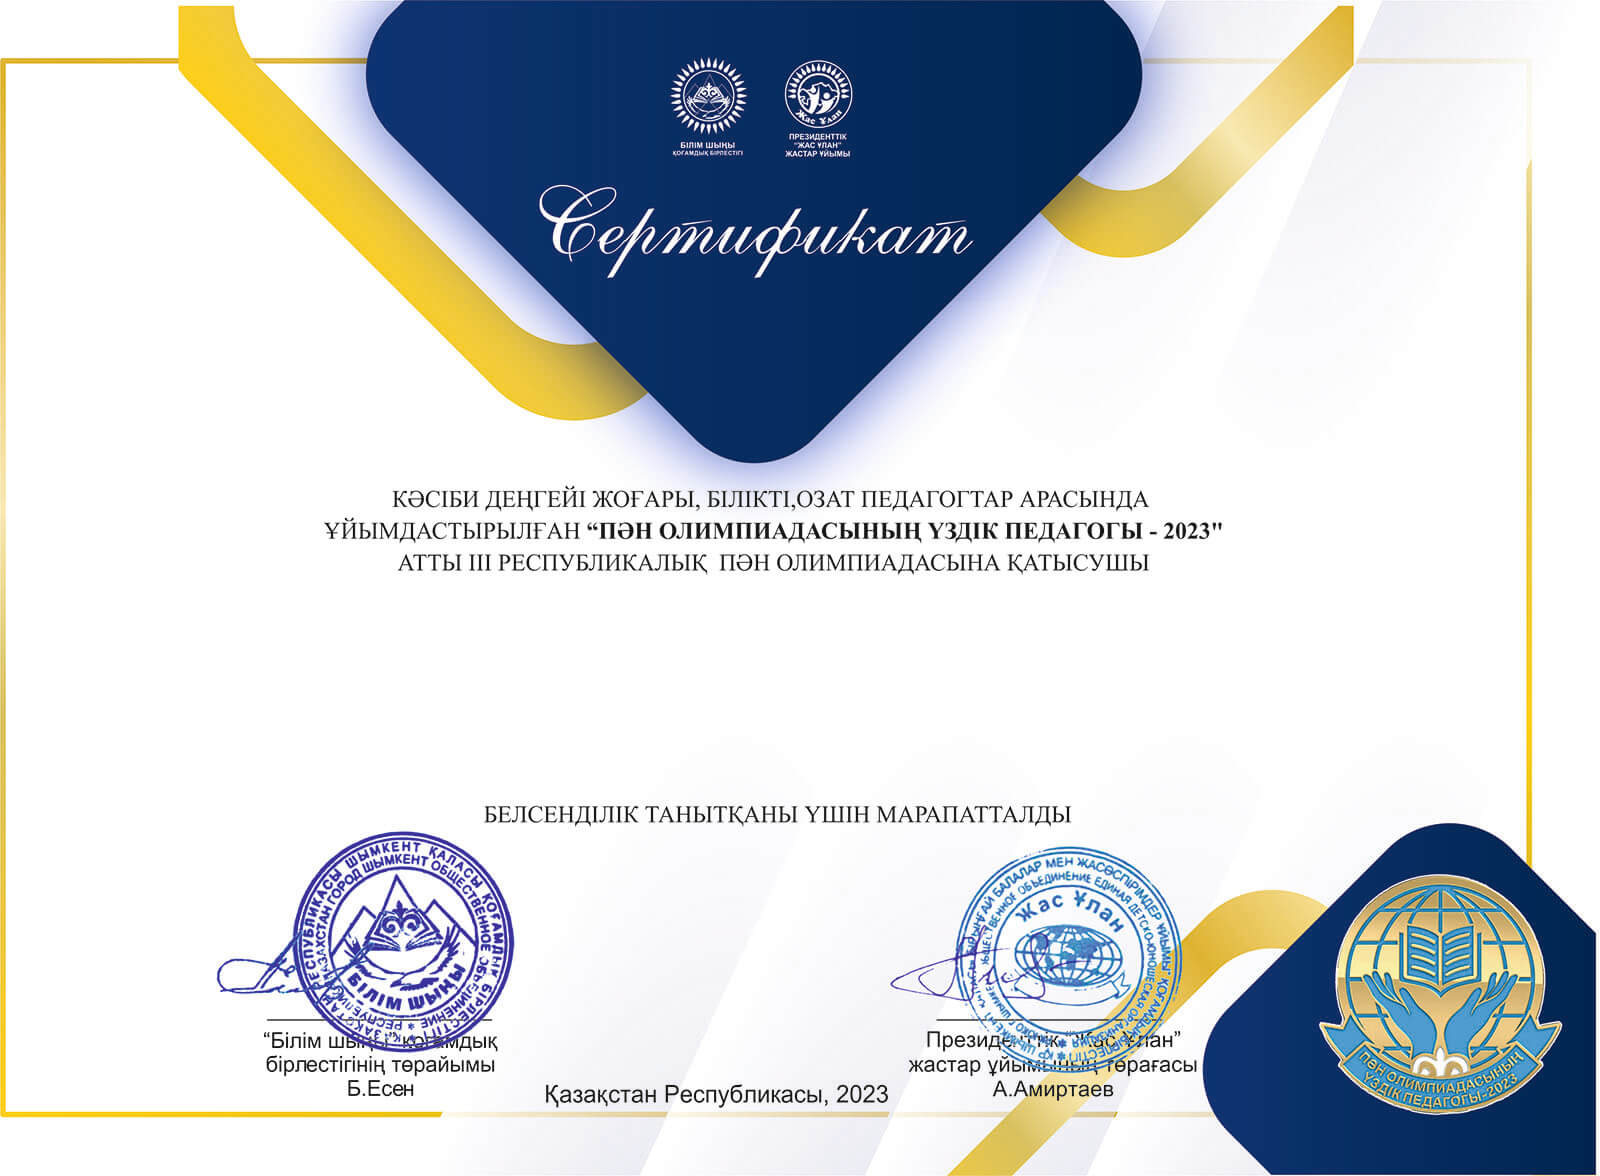
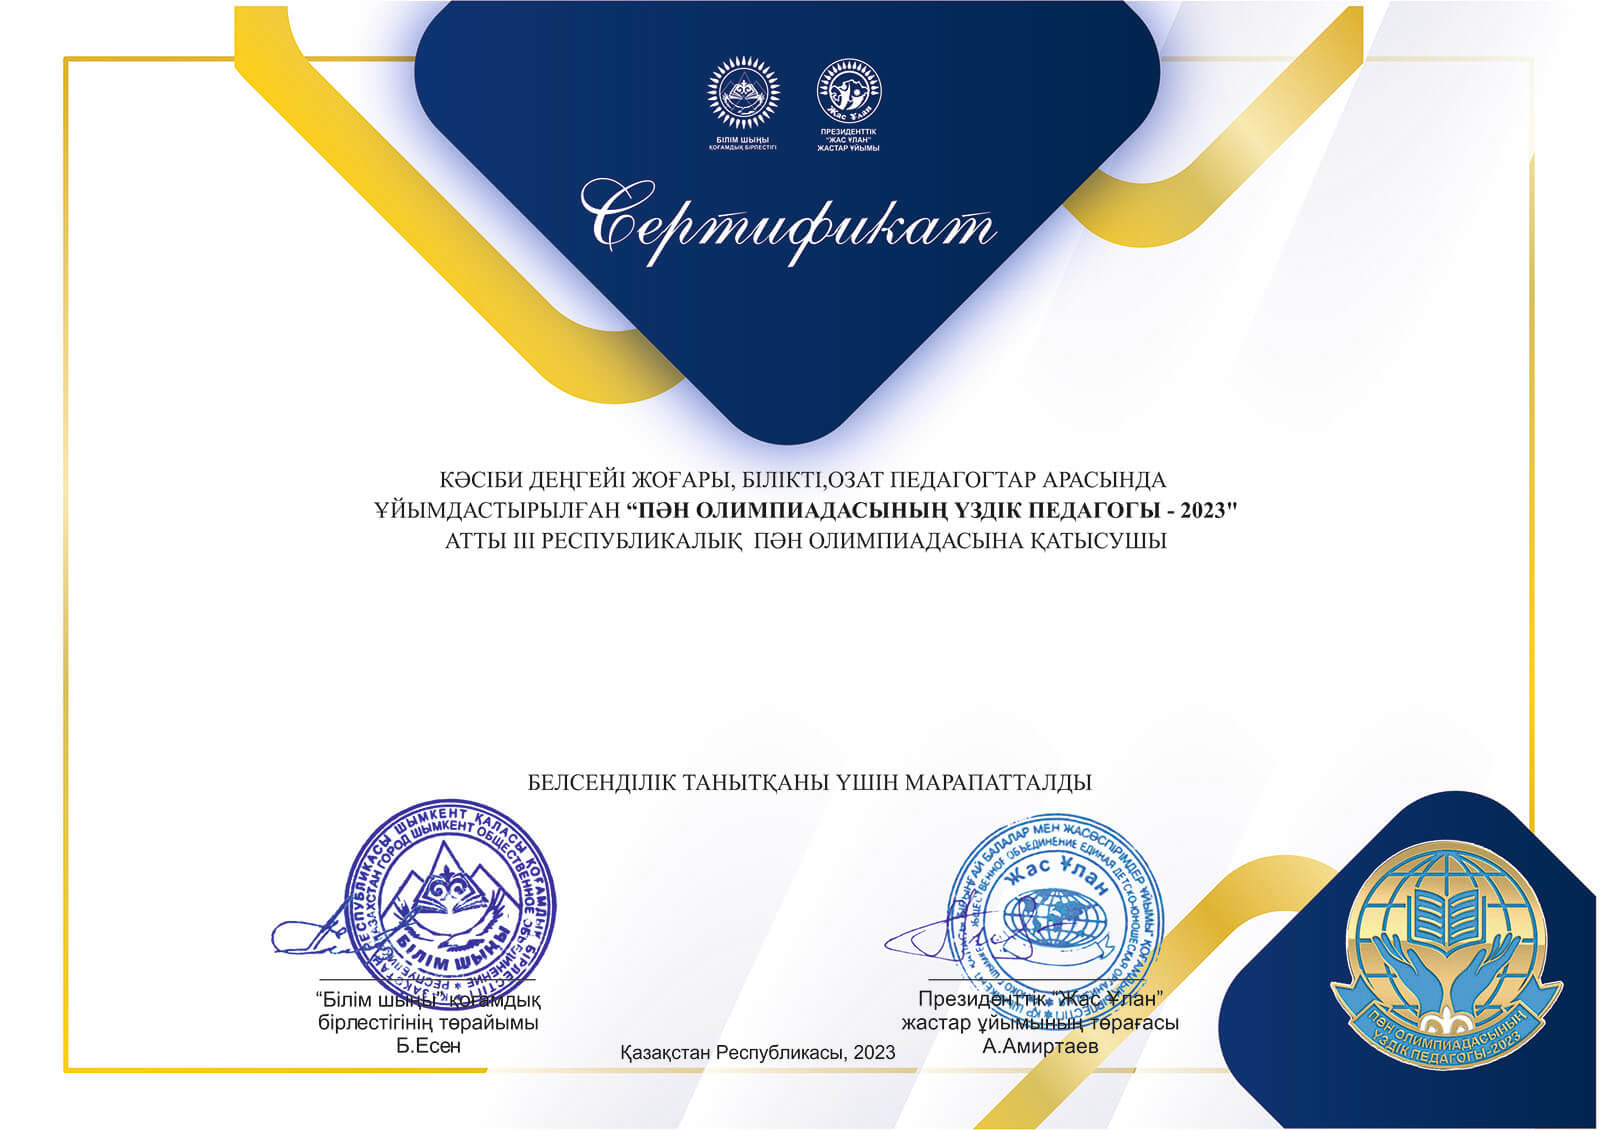
fixes

diff --git a/frontend/views/olympiad/en-uzdik-pedagog-2023/_cert.php b/frontend/views/olympiad/en-uzdik-pedagog-2023/_cert.php
@@ -13,8 +13,8 @@ $qrCode = (new QrCode(\yii\helpers\Url::toRoute(['olympiad/get-cert', 'id' => $t
 ?>
 <div>
     <div class="cert-page" style="background-image: url('./img/en-uzdik-pedagog-2023/cert.jpg'); background-size: cover; background-repeat: no-repeat; font-family: 'Arial'; height: 1200px">
-        <div style="padding-left: 240px; padding-top: 400px; text-align: center; width: 600px; height: 150px; font-size: 18px">
-            <div style="padding-top: 10px; padding-left: 100px; font-family: 'Arial'; height: 80px; width: 400px">
+        <div style="padding-left: 260px; padding-top: 390px; text-align: center; width: 600px; height: 150px; font-size: 18px">
+            <div style="padding-top: 0; padding-left: 100px; font-family: 'Arial'; height: 80px; width: 400px">
                 <div style="font-size: 14px; font-weight: 500;">
                     <?php
                     if ($testAssignment->school !== null) {
@@ -32,11 +32,11 @@ $qrCode = (new QrCode(\yii\helpers\Url::toRoute(['olympiad/get-cert', 'id' => $t
             <div>
                 <?= $testAssignment->subject->name ?> <?= !$testAssignment->subject->is_not_subject ? 'пәні' : '' ?> мұғалімі
             </div>
-            <div style="font-size: 22px; padding-top: 10px; font-weight: lighter; height: 60px; text-transform: uppercase;">
+            <div style="font-size: 20px; padding-top: 10px; font-weight: lighter; height: 60px; text-transform: uppercase;">
                 <b><?= $testAssignment->surname . ' ' . $testAssignment->name . ' ' . $testAssignment->patronymic ?></b>
             </div>
         </div>
-        <div class="border" style="display: flex; padding-left: 20px; padding-top: 50px; text-align: left">
+        <div class="border" style="display: flex; padding-left: 60px; padding-top: 50px; text-align: left">
             <div id="cert-qrcode"><?= '<img src="' . $qrCode->writeDataUri() . '">' ?></div>
             <div style="padding-top: 5px; font-size: 11px; padding-left: 0; font-weight: bold;">
                 <div id="cert-number">Тіркеу №<?= $testAssignment->id ?></div>

diff --git a/frontend/views/olympiad/en-uzdik-pedagog-2023/_diploma.php b/frontend/views/olympiad/en-uzdik-pedagog-2023/_diploma.php
@@ -12,11 +12,11 @@ $qrCode = (new QrCode(\yii\helpers\Url::toRoute(['olympiad/get-cert', 'id' => $t
 ?>
 <div>
     <div class="cert-page" style="background-image: url('./img/en-uzdik-pedagog-2023/diploma.jpg'); background-size: cover; background-repeat: no-repeat; font-family: 'Arial'; height: 1200px">
-        <div style="padding-left: 200px; padding-top: 520px; width: 400px; height: 150px; font-size: 18px; text-align: center">
+        <div style="padding-left: 100px; padding-top: 460px; width: 600px; height: 150px; font-size: 18px; text-align: center">
             <div>
                 <b><?= $place ?> ИЕГЕРІ</b>
             </div>
-            <div style="padding-top: 10px; font-family: 'Arial'; height: 100px;">
+            <div style="padding-left: 100px; padding-top: 10px; width: 400px; font-family: 'Arial'; height: 100px;">
                 <div style="font-size: 14px; font-weight: 500;">
                     <?php
                     if ($testAssignment->school !== null) {
@@ -38,7 +38,7 @@ $qrCode = (new QrCode(\yii\helpers\Url::toRoute(['olympiad/get-cert', 'id' => $t
                 <b><?= $testAssignment->surname . ' ' . $testAssignment->name . ' ' . $testAssignment->patronymic ?></b>
             </div>
         </div>
-        <div class="border" style="display: flex; padding-left: 55px; padding-top: 160px">
+        <div class="border" style="display: flex; padding-left: 55px; padding-top: 220px">
             <div id="cert-qrcode"><?= '<img src="' . $qrCode->writeDataUri() . '">' ?></div>
             <div style="padding-top: 5px; font-size: 11px; padding-left: 0;">
                 <div id="cert-number">Тіркеу №<?= $testAssignment->id ?></div>
